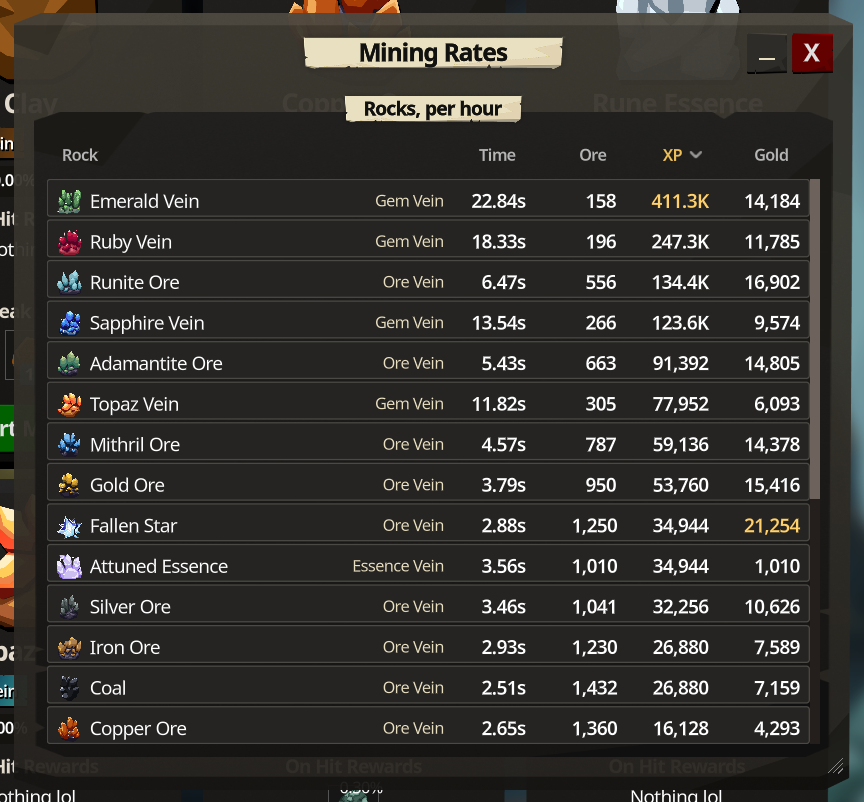
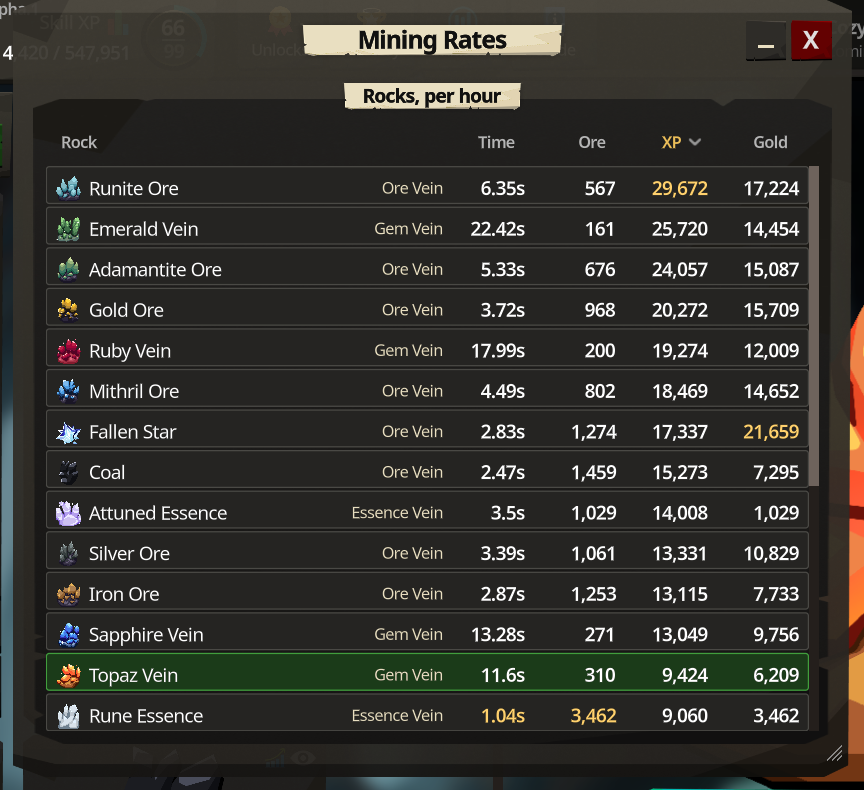
Mining Rates: pictures and changelog

diff --git a/mods/MiningRates/README.md b/mods/MiningRates/README.md
@@ -8,7 +8,7 @@
 
 > Where do I mine for the most XP, ore or gold per hour?
 
-<!-- picture: Mining Rates beside the rock cards, sorted by Mining XP per hour -->
+![Every rock with its category, the time of one ore, and ore, Mining XP and gold per hour, sorted by XP, the best of each column in gold](../../docs/img/mining-rates.png)
 
 On the Mining page, the rates window shows one line per rock. Compare the time for one ore and the ore,
 Mining XP and gold per hour at each rock. A rock that takes more hits to break gives its XP less often.
@@ -70,7 +70,7 @@ category, and:
   measured once its category is shown: a click on its line changes the filter, and from then on its tooltip
   says when there is no room.
 
-<!-- picture: after a row click, the rock card beside Mining Rates with XP sorted by the corrected rate -->
+![After a click on Topaz Vein's line: the Mining page scrolled so that the whole card of Topaz Vein stands beside the window](../../docs/img/mining-rates-clicked.png)
 
 - **A rock you cannot mine yet is greyed**, with the Mining level it needs (`Lv 40`), or `Locked` when it
   needs something else. Its numbers come from the game's own values for it like the others, and it is never
@@ -111,7 +111,7 @@ Put the pointer on a line for the whole hour at that rock:
 | **The Mining page has no room for this rock's card beside this window: drag the window aside.** | Instead of the line above, when no scroll of the page's list shows the rock's whole card clear of the window. |
 | **The Mining page has no room to show this rock's whole card.** | Instead of the line above, when the page's list is smaller than a card, window or not. |
 
-<!-- picture: a rock's tooltip with XP per break and the Topaz Vein bank counts -->
+![The tooltip of Gold Ore: the time of a hit, the hits a break takes by the game's own rule, the XP of a break, the ore of a break, the items of a hit, the doubling chance and the gold](../../docs/img/mining-rates-tooltip.png)
 
 ## What is counted
 

diff --git a/CHANGELOG.md b/CHANGELOG.md
@@ -21,10 +21,11 @@ From 0.3.0 on all the mods share one version, the repository's. Before that each
   without starting to cut. The window first opens at the right of the page, beside the cards.
 - **Mining Rates**, a new mod: on the Mining page, a round button opens one line per rock, with its picture, its
   category, the time of one ore, and ore, Mining XP and gold per hour, from the game's own numbers for your
-  character and the game's own rule for breaking a rock. The best of each column is gold, a click on a column's
-  name sorts by it, the rock you are mining is lit, a locked rock is greyed with the level it needs, and a click on
-  a line scrolls the Mining page to that rock's whole card, beside the window, without starting to mine. A line's
-  tooltip has the whole hour.
+  character and the game's own rule for breaking a rock. Mining XP comes once a break, as measured in the game on
+  Runite Ore and Topaz Vein. The best of each column is gold, a click on a column's name sorts by it, the rock you
+  are mining is lit, a locked rock is greyed with the level it needs, and a click on a line scrolls the Mining page
+  to that rock's whole card, beside the window, without starting to mine. The window first opens beside the cards.
+  A line's tooltip has the whole hour.
 - **Combat Simulator**: Lowest hitpoints, First death, Safe, Max hit and Best drop have no range, so against
   another setup or an item they are now grey where they differ ("could be luck, no range"), unless only one of
   the two died or the game's own numbers decide it, and the line says which. A shortened best drop is whole in
